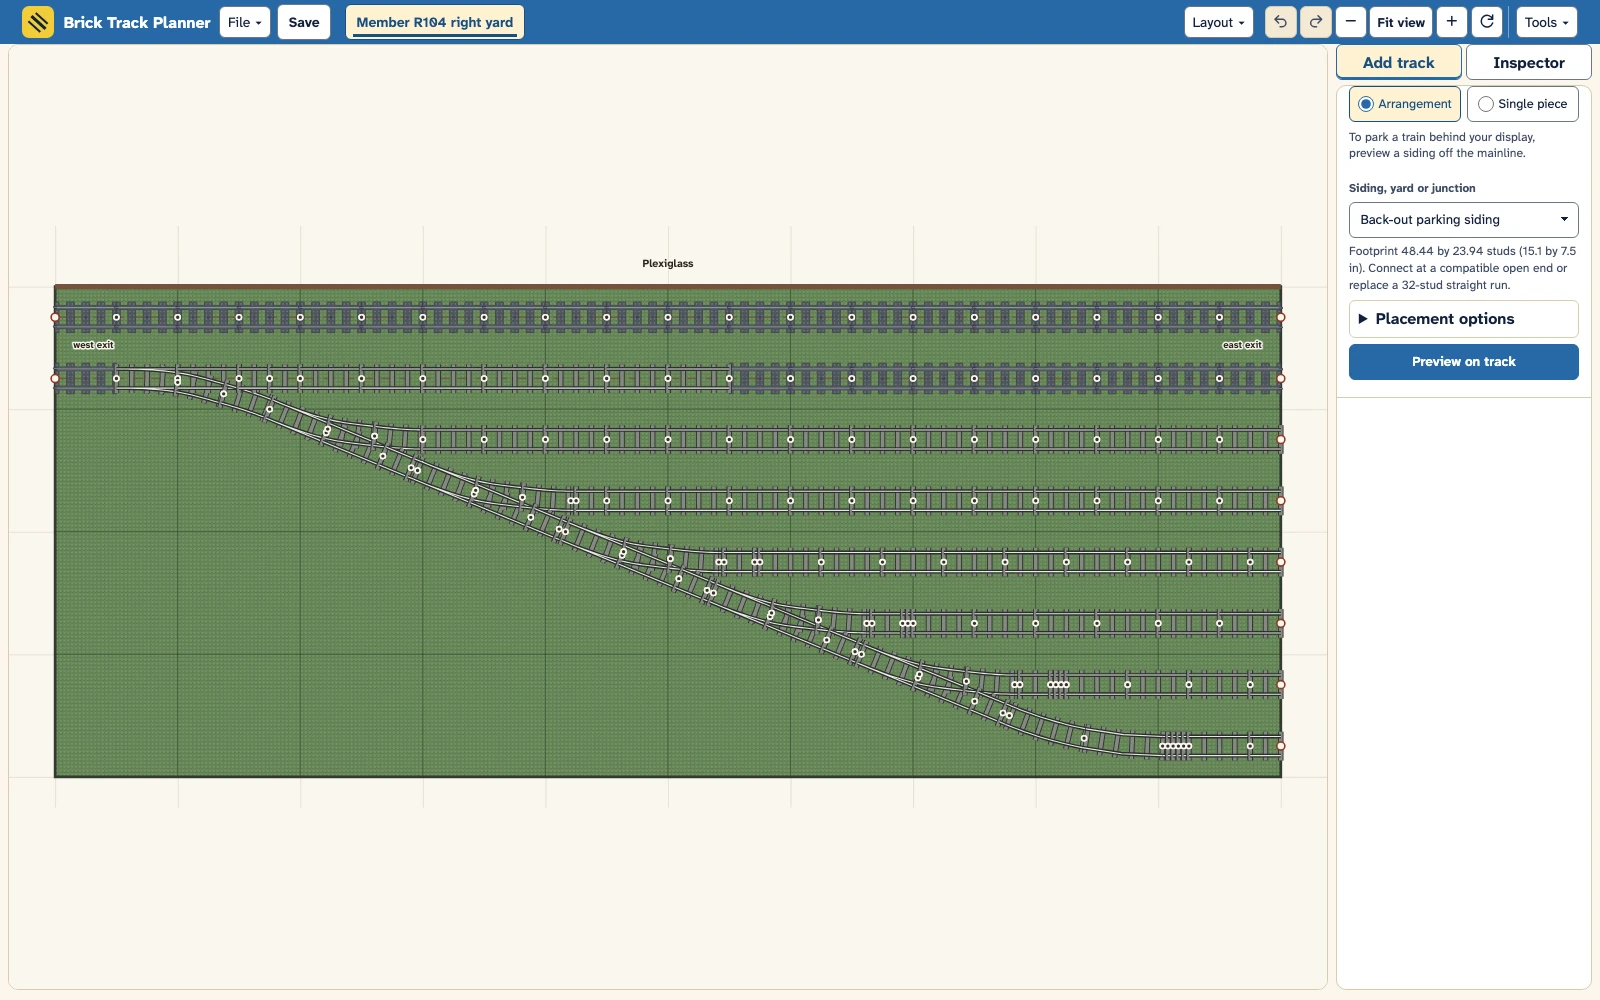
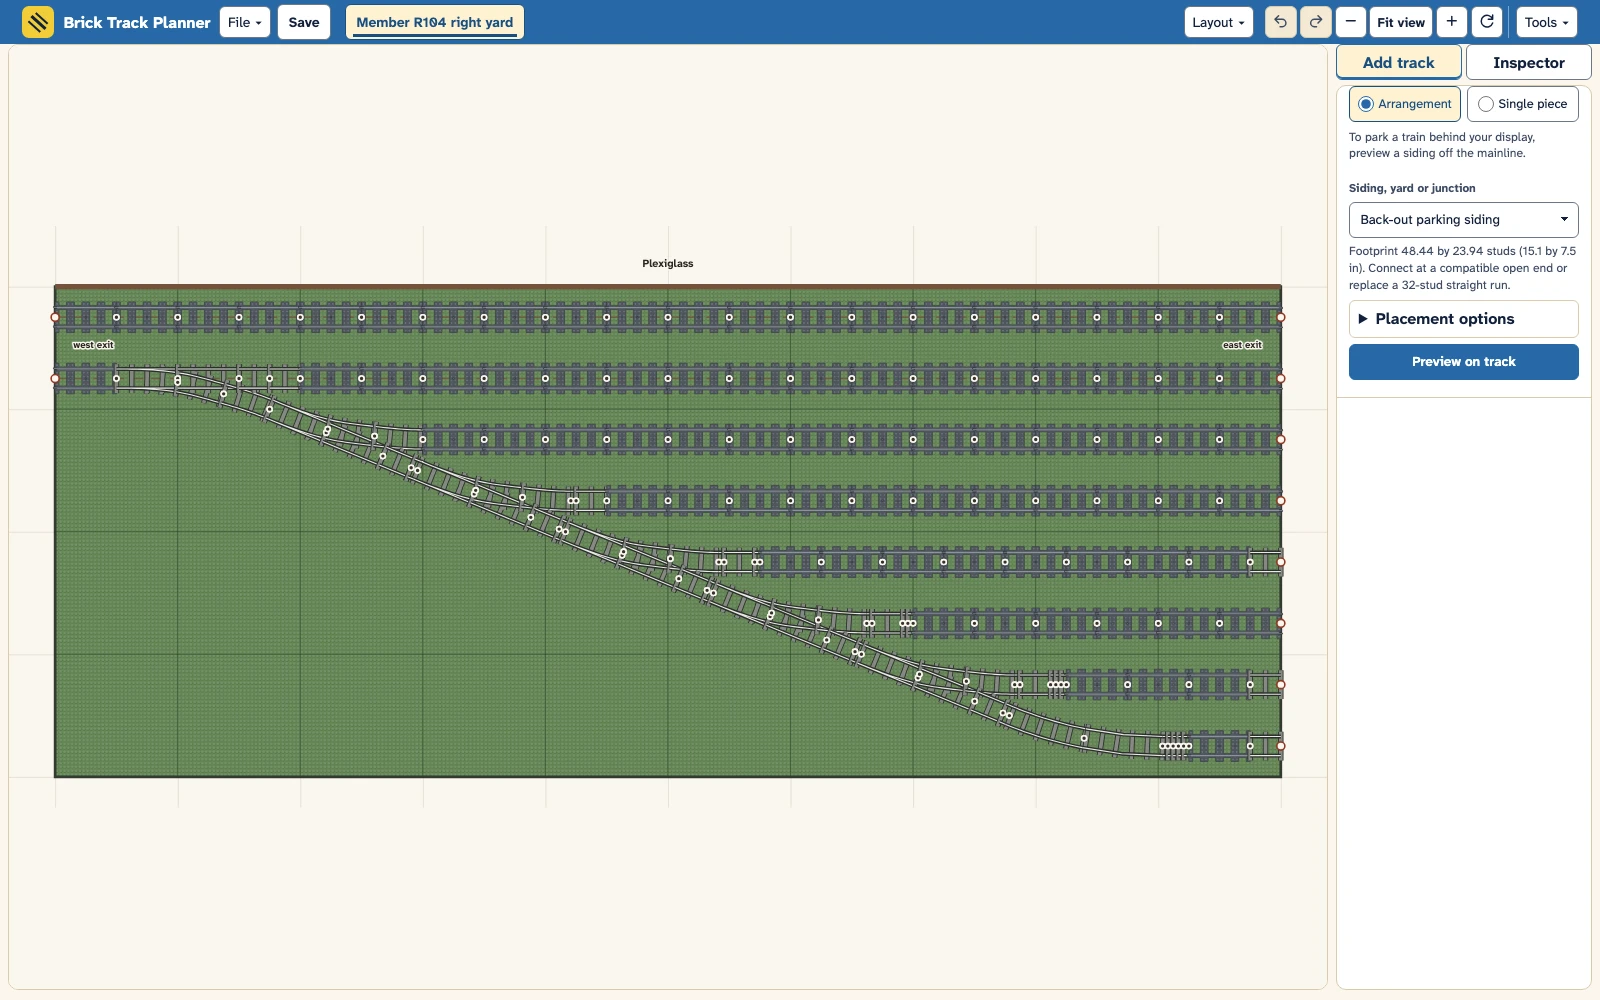
Prefer LEGO RC/PF S16 for interchangeable 16-stud straights in generated
yards and bundled track plans.

Changed region(s): [[0.1875, 0.341, 0.8125, 0.775]]

diff --git a/src/planner_build.css b/src/planner_build.css
@@ -417,6 +417,7 @@ body[data-project-open] .status:empty {
   display: none;
 }
 body[data-project-open] .app-header {
+  --project-header-control-size: 2rem;
   position: relative;
   display: grid;
   grid-template-columns: auto auto minmax(0, 1fr);
@@ -424,6 +425,23 @@ body[data-project-open] .app-header {
   min-height: 44px;
   padding-block: 0.25rem;
   gap: 0.35rem 0.55rem;
+}
+body[data-project-open] .app-header :is(
+  .file-controls > button,
+  .editor-disclosure > summary,
+  #layout-tablist button,
+  .phone-panel-action,
+  .canvas-toolbar #fit-view
+) {
+  min-block-size: var(--project-header-control-size);
+  padding-block: 0.2rem;
+  line-height: 1;
+}
+body[data-project-open] .app-header .canvas-toolbar .icon-button {
+  inline-size: var(--project-header-control-size);
+  block-size: var(--project-header-control-size);
+  min-inline-size: var(--project-header-control-size);
+  min-block-size: var(--project-header-control-size);
 }
 .editor-controls {
   display: grid;
@@ -468,13 +486,17 @@ body[data-project-open] .app-header {
 }
 .editor-disclosure > summary::after {
   content: "\25be";
+  display: inline-block;
   margin-inline-start: 0.32rem;
   font-size: 0.75em;
 }
 .editor-disclosure[open] > summary {
   color: var(--accent-dark);
   border-color: var(--accent);
-  background: var(--selected);
+  background: var(--accent-soft);
+}
+.editor-disclosure[open] > summary::after {
+  transform: rotate(180deg);
 }
 .editor-menu {
   display: grid;
@@ -563,6 +585,11 @@ body[data-project-open] .app-header {
 }
 .canvas-toolbar .icon-button {
   min-width: 2rem;
+}
+.canvas-toolbar .icon-button:disabled {
+  color: #d5e3f1;
+  border-color: #ffffff55;
+  background: transparent;
 }
 .canvas-toolbar > .toolbar-group::after {
   content: "";
@@ -728,6 +755,9 @@ body[data-project-open] .app-header {
   }
 }
 @media (max-width: 750px), (pointer: coarse) {
+  body[data-project-open] .app-header {
+    --project-header-control-size: 44px;
+  }
   .canvas-toolbar .icon-button {
     inline-size: var(--control-height);
     block-size: var(--control-height);

diff --git a/src/turnback_wye.ts b/src/turnback_wye.ts
@@ -54,7 +54,7 @@ export function createTurnbackWye(catalog: Catalog, storageStuds: number): Kit {
     "trixbrix:r104",
     "trixbrix:s01",
     "trixbrix:s02",
-    "trixbrix:s16",
+    "lego:rc-s16",
   ];
   for (const id of needed) part(catalog, id);
   const parts: Kit["parts"] = [];
@@ -82,11 +82,11 @@ export function createTurnbackWye(catalog: Catalog, storageStuds: number): Kit {
   expand(catalog, parts, "trixbrix:r104-left", { x: 236.49413, y: 41.37655, angle: 180 });
   let mainline: Pose = { x: 87.0309, y: 37.49287, angle: 0 };
   for (let index = 0; index < 8; index += 1)
-    mainline = add(catalog, parts, "trixbrix:s16", "a", mainline);
+    mainline = add(catalog, parts, "lego:rc-s16", "a", mainline);
   add(catalog, parts, "trixbrix:s02", "a", mainline);
   let tail = end(catalog, wye, "common");
   for (let studs = 0; studs < storageStuds; studs += 16) {
-    tail = add(catalog, parts, "trixbrix:s16", "a", tail);
+    tail = add(catalog, parts, "lego:rc-s16", "a", tail);
   }
 
   return {

diff --git a/src/drive_through_yard.ts b/src/drive_through_yard.ts
@@ -19,7 +19,7 @@ export function createDriveThroughYard(catalog: Catalog, storageStuds: number): 
     if (count < 0 || Math.abs(count * 16 - span) > 0.05)
       throw new Error("The yard tracks must close on S16 joints.");
     for (let i = 0; i < count; i++)
-      parts.push({ partId: "trixbrix:s16", x: start.x + 8 + i * 16, y: start.y, angle: 0 });
+      parts.push({ partId: "lego:rc-s16", x: start.x + 8 + i * 16, y: start.y, angle: 0 });
   }
   return {
     id: "parking:r40-four-track-drive-through",

diff --git a/docs/CHANGELOG.md b/docs/CHANGELOG.md
@@ -22,6 +22,9 @@
 
 ### Behavior or Interface Changes
 
+- Prefer LEGO RC/PF S16 for interchangeable 16-stud straights in generated
+  yards and bundled track plans.
+
 - Combine layout tabs, file commands, history, and view controls in one
   compact desktop row. Reduce button padding and keep view controls above
   the drawing.
